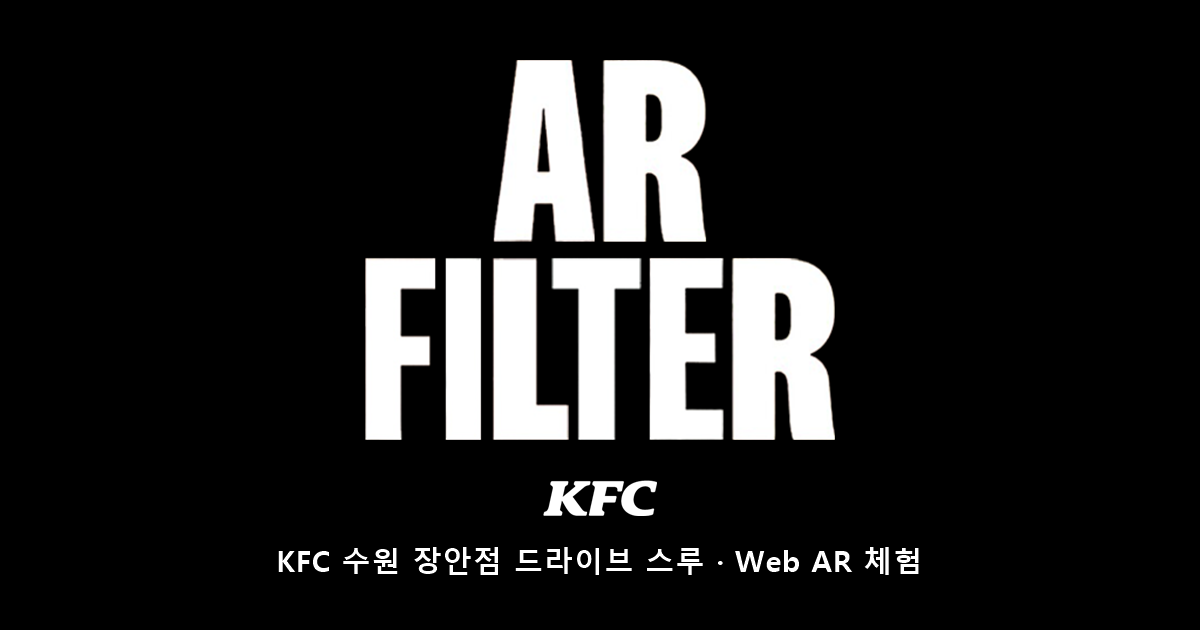
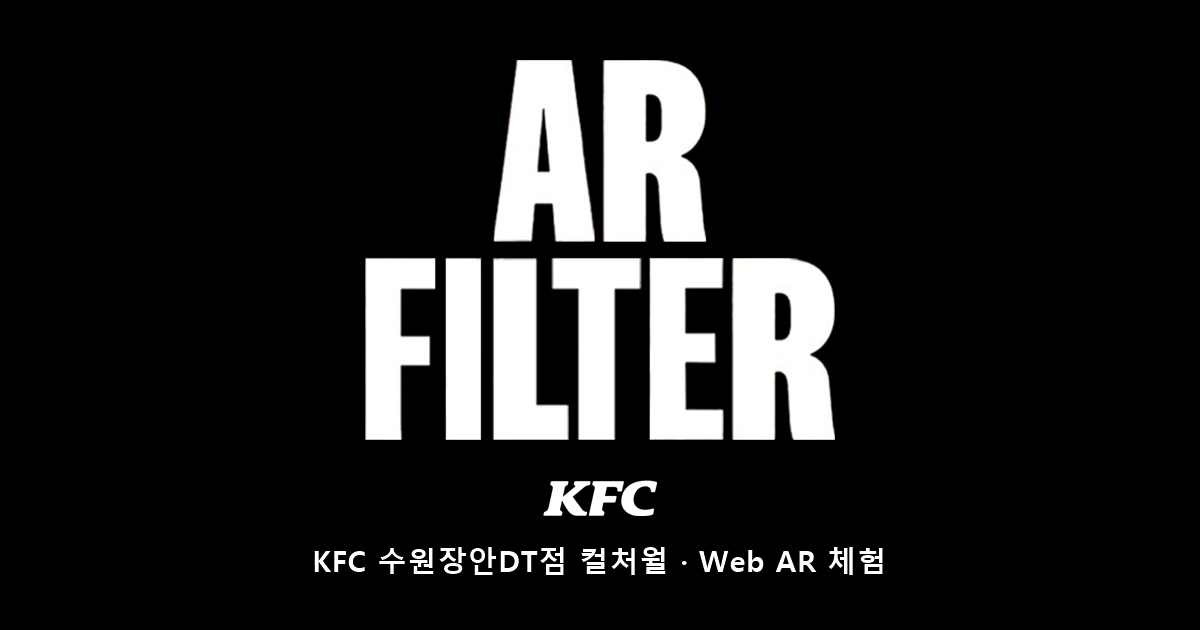
SEO: exact store data for KFC 수원장안DT점
- Address 경기도 수원시 장안구 경수대로 992, Google Maps link (hasMap),
  news article (subjectOf), opening date 2026-05-27, amenities (drive-thru,
  컬처월 수원화성 x KFC 버켓, MD존, QR Web AR), alternate names
- Description/keywords mention 컬처월 and 11 Herbs & Spices; OG image caption

Changed region(s): [[0.2158, 0.8444, 0.7708, 0.9349]]

diff --git a/src/lib/site.ts b/src/lib/site.ts
@@ -15,23 +15,31 @@
 export const SITE_URL = 'https://kfc-bundle-2026.vercel.app'
 
 export const SITE = {
-	name: 'KFC 수원 장안점 드라이브 스루 AR',
-	title: 'KFC 수원 장안점 드라이브 스루 매장 Web AR 체험 | 웹 기반 증강현실',
+	name: 'KFC 수원장안DT점 Web AR',
+	title: 'KFC 수원장안DT점(드라이브 스루) 컬처월 Web AR 체험 | 웹 기반 증강현실',
 	description:
-		'KFC 수원 장안점 드라이브 스루 매장을 위한 웹 기반 증강현실(Web AR / WebXR) 콘텐츠. ' +
-		'앱 설치 없이 모바일 브라우저에서 카메라로 매장 벽면을 비추면 KFC 캐슬이 나타나고, ' +
-		'터치하면 치킨과 KFC 박스가 쏟아지는 인터랙티브 AR 체험을 즐길 수 있습니다.',
+		'KFC 수원장안DT점(경기도 수원시 장안구 경수대로 992, 드라이브 스루 매장)의 컬처월 — ' +
+		'수원화성과 KFC 버켓을 접목한 설치미술 — 을 위한 웹 기반 증강현실(Web AR / WebXR) 콘텐츠. ' +
+		'앱 설치 없이 모바일 브라우저에서 QR로 접속해 카메라로 벽면 조형물을 비추면 KFC 캐슬이 나타나고, ' +
+		'터치하면 KFC의 11 Herbs & Spices 오리지널 레시피 파우더와 함께 치킨과 KFC 박스가 쏟아지는 인터랙티브 AR 체험을 즐길 수 있습니다.',
 	keywords: [
 		'KFC',
+		'KFC 수원장안DT점',
 		'KFC 수원 장안점',
+		'KFC 수원장안점',
 		'KFC 드라이브 스루',
+		'KFC DT',
 		'수원 KFC',
-		'장안점',
+		'경수대로 992',
+		'수원화성',
+		'컬처월',
+		'11 Herbs & Spices',
 		'Web AR',
 		'WebXR',
 		'웹 증강현실',
 		'증강현실',
 		'AR 체험',
+		'QR AR',
 		'8th Wall',
 		'월드 트래킹',
 		'모바일 AR',
@@ -43,11 +51,20 @@ export const SITE = {
 	ogImagePath: '/og.png',
 	/** The store this experience is built for (structured data). */
 	store: {
-		name: 'KFC 수원 장안점 (드라이브 스루)',
+		name: 'KFC 수원장안DT점',
+		alternateName: ['KFC 수원 장안점 드라이브 스루', 'KFC 수원장안점 DT', 'KFC Suwon Jangan DT'],
 		brand: 'KFC',
-		addressLocality: '수원시',
+		streetAddress: '경수대로 992',
+		addressLocality: '장안구, 수원시',
 		addressRegion: '경기도',
-		addressCountry: 'KR'
+		addressCountry: 'KR',
+		mapUrl: 'https://maps.app.goo.gl/CQ12ZjngSarbwnubA',
+		/** 신아일보, 2026-05-27: 수원장안DT점 오픈 (컬처월 = 수원화성 × KFC 버켓 설치미술, QR AR 콘텐츠). */
+		newsUrl: 'https://www.shinailbo.co.kr/news/articleView.html?idxno=5024507',
+		openingDate: '2026-05-27',
+		description:
+			'드라이브 스루 매장. 브랜드 굿즈 MD존과 수원화성 × KFC 버켓 설치미술 컬처월을 갖추고, ' +
+			'QR코드로 접속하는 11 Herbs & Spices 오리지널 레시피 증강현실(AR) 콘텐츠를 제공합니다.'
 	}
 } as const
 

diff --git a/src/routes/+page.svelte b/src/routes/+page.svelte
@@ -46,18 +46,35 @@
 				license: `${SITE_URL}/#license`
 			},
 			{
-				'@type': 'Restaurant',
+				'@type': ['Restaurant', 'FastFoodRestaurant'],
 				'@id': `${SITE_URL}/#store`,
 				name: SITE.store.name,
+				alternateName: [...SITE.store.alternateName],
+				description: SITE.store.description,
 				brand: { '@type': 'Brand', name: SITE.store.brand },
 				servesCuisine: 'Fried chicken',
 				hasDriveThroughService: true,
+				hasMap: SITE.store.mapUrl,
+				subjectOf: {
+					'@type': 'NewsArticle',
+					url: SITE.store.newsUrl,
+					headline: 'KFC 수원장안DT점 오픈 — MD존·컬처월·AR 콘텐츠',
+					datePublished: SITE.store.openingDate,
+					publisher: { '@type': 'Organization', name: '신아일보' }
+				},
 				address: {
 					'@type': 'PostalAddress',
+					streetAddress: SITE.store.streetAddress,
 					addressLocality: SITE.store.addressLocality,
 					addressRegion: SITE.store.addressRegion,
 					addressCountry: SITE.store.addressCountry
-				}
+				},
+				amenityFeature: [
+					{ '@type': 'LocationFeatureSpecification', name: '드라이브 스루 (Drive-Thru)', value: true },
+					{ '@type': 'LocationFeatureSpecification', name: '컬처월 (수원화성 × KFC 버켓 설치미술)', value: true },
+					{ '@type': 'LocationFeatureSpecification', name: 'MD존 (브랜드 굿즈)', value: true },
+					{ '@type': 'LocationFeatureSpecification', name: 'QR Web AR 콘텐츠', value: true }
+				]
 			},
 			{
 				'@type': ['Person', 'Organization'],
@@ -96,7 +113,7 @@
 	<meta name="mobile-web-app-capable" content="yes" />
 	<meta name="format-detection" content="telephone=no" />
 	<meta name="geo.region" content="KR-41" />
-	<meta name="geo.placename" content="수원시, 경기도" />
+	<meta name="geo.placename" content="경기도 수원시 장안구 경수대로 992 (KFC 수원장안DT점)" />
 	<link rel="canonical" href={SITE_URL} />
 	<link rel="alternate" hreflang="ko" href={SITE_URL} />
 
